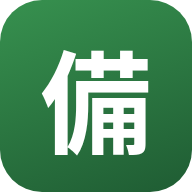
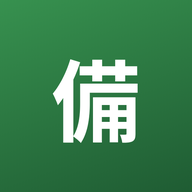
アイコンの白い縁を解消：標準アイコンを全面塗りに、登録アイコンは画像の隅の色で全面塗りつぶし
Claude-Session: https://claude.ai/code/session_01BoZU4NtxX25kejHQ6i2xsy

diff --git a/index.html b/index.html
@@ -6591,12 +6591,25 @@
     g.drawImage(im, (size - w * sc) / 2, (size - h * sc) / 2, w * sc, h * sc);
     return c.toDataURL("image/png");
   }
+  // 画像の四隅の色を「背景色」として使い、白い縁が出ないよう全面を塗りつぶす（透明な画像は白）
+  function cornerColor(im){
+    try{
+      var c = document.createElement("canvas"); c.width = 8; c.height = 8;
+      var g = c.getContext("2d"); g.drawImage(im, 0, 0, 8, 8);
+      var px = [[0,0],[7,0],[0,7],[7,7]].map(function(p){ return g.getImageData(p[0], p[1], 1, 1).data; });
+      var r = 0, gr = 0, b = 0, a = 0;
+      px.forEach(function(d){ r += d[0]; gr += d[1]; b += d[2]; a += d[3]; });
+      if(a / 4 < 200) return "#FFFFFF";
+      return "rgb(" + Math.round(r/4) + "," + Math.round(gr/4) + "," + Math.round(b/4) + ")";
+    }catch(e){ return "#FFFFFF"; }
+  }
   function iconsFromSrc(src){
     return new Promise(function(resolve, reject){
       var im = new Image();
       im.onerror = function(){ reject(new Error("画像として開けませんでした。")); };
       im.onload = function(){
-        resolve({ i192: drawSquare(im, 192, 0), i512: drawSquare(im, 512, 0), imask: drawSquare(im, 512, 0.12, "#FFFFFF"), i180: drawSquare(im, 180, 0.06, "#FFFFFF") });
+        var bg = cornerColor(im);
+        resolve({ i192: drawSquare(im, 192, 0.04, bg), i512: drawSquare(im, 512, 0.04, bg), imask: drawSquare(im, 512, 0.14, bg), i180: drawSquare(im, 180, 0.04, bg), bg: bg });
       };
       im.src = src;
     });
@@ -6623,7 +6636,7 @@
         try{
           var man = { name: "備品管理システム", short_name: "備品管理", description: "備品の貸出・返却・整備を管理します", lang: "ja",
             start_url: location.origin + "/", scope: location.origin + "/", display: "standalone", orientation: "any",
-            background_color: "#FFFFFF", theme_color: "#2E7D45",
+            background_color: appIcons.bg || "#FFFFFF", theme_color: "#2E7D45",
             icons: [ { src: appIcons.i192, sizes: "192x192", type: "image/png", purpose: "any" }, { src: appIcons.i512, sizes: "512x512", type: "image/png", purpose: "any" }, { src: appIcons.imask, sizes: "512x512", type: "image/png", purpose: "maskable" } ] };
           m.href = URL.createObjectURL(new Blob([JSON.stringify(man)], { type: "application/manifest+json" }));
         }catch(e){ console.warn("manifest apply failed", e); }
@@ -6673,7 +6686,7 @@
     try{
       db.collection("settings").doc("icon").onSnapshot(function(d){
         var x = d.exists ? d.data() : null;
-        var ic = (x && x.i192) ? { i192: x.i192, i512: x.i512, imask: x.imask, i180: x.i180 } : null;
+        var ic = (x && x.i192) ? { i192: x.i192, i512: x.i512, imask: x.imask, i180: x.i180, bg: x.bg } : null;
         applyIcons(ic); cacheIcons(ic);
       }, function(err){ console.warn("icon subscribe error", err); });
     }catch(e){ console.warn("icon subscribe failed", e); }

diff --git a/sw.js b/sw.js
@@ -1,7 +1,7 @@
 /* 備品管理システム：ホーム画面に追加できるようにするための最小のサービスワーカー。
    データ（Firestore）やAPIはキャッシュせず、画面（HTML・アイコン）だけを、
    通信できないときの代わりに表示する。通常は常に最新を取得する（ネットワーク優先）。 */
-const CACHE = "bihin-shell-v2";
+const CACHE = "bihin-shell-v3";
 const SHELL = ["/", "/manifest.webmanifest", "/icons/icon-192.png", "/icons/icon-512.png", "/icons/apple-touch-icon.png"];
 
 self.addEventListener("install", function(e){
